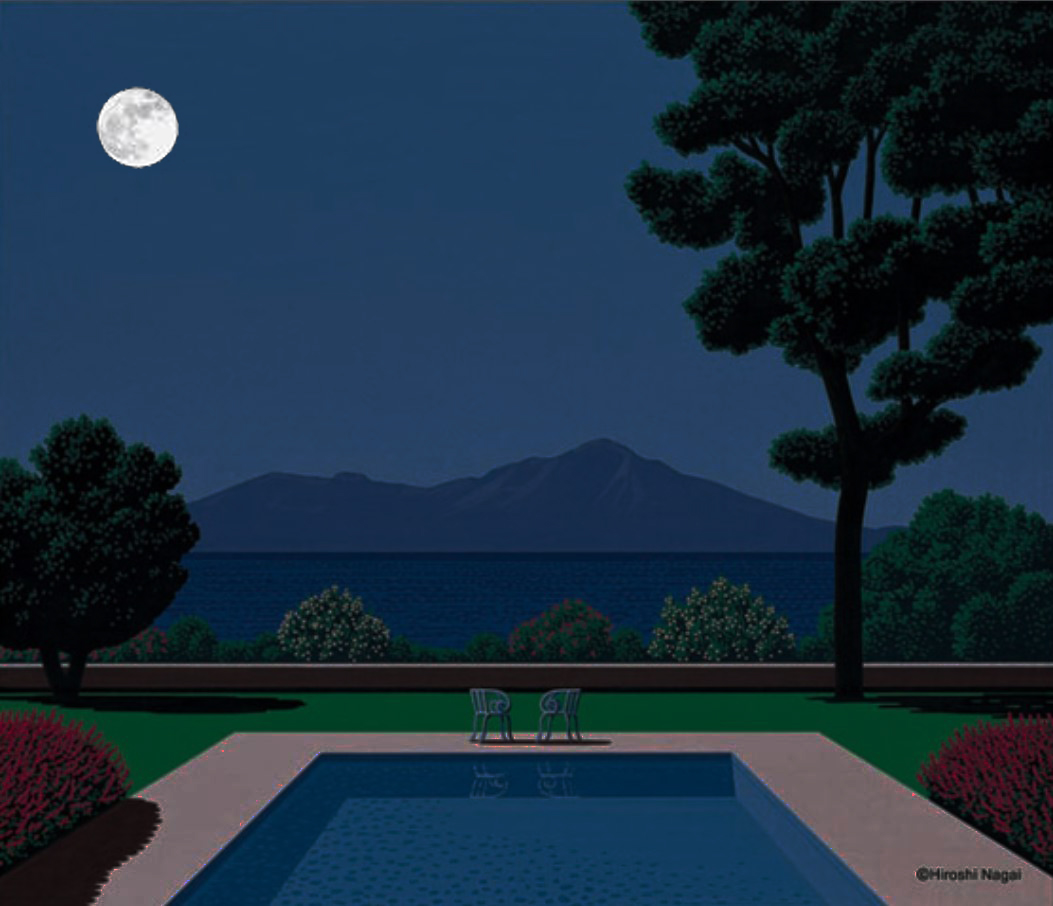
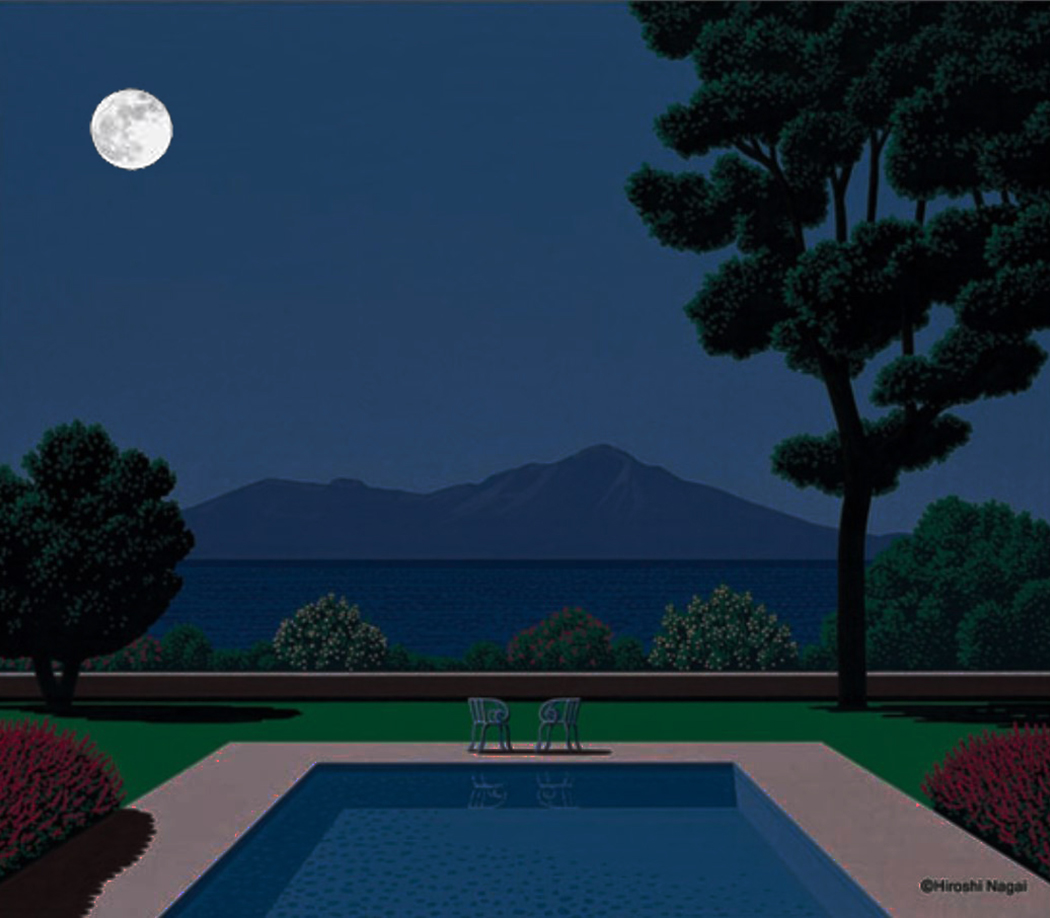
added night time image

diff --git a/src/components/the-view/the-view.vue b/src/components/the-view/the-view.vue
@@ -4,10 +4,11 @@
 
 
     <img id="pool" :src="poolImage" v-if="itsDayTime"/>
+    <img id="pool" :src="nightPoolImage" v-if="!itsDayTime"/>
 
     <img id="rain" :src="rainImage" v-if="itsRaining"/>
 
-    <div id="clouds">
+    <div id="clouds" v-if="itsDayTime">
          <img id="cloud1" :src="cloudImage" v-on:click="itsRaining = !itsRaining"/>
          <img id="cloud2" :src="cloudImage" v-on:click="itsRaining = !itsRaining"/>
          <img id="cloud3" :src="cloudImage" v-on:click="itsRaining = !itsRaining"/>
@@ -20,6 +21,7 @@
 
 <script>
 import poolFile from "./images/pool.jpg"
+import nightPoolFile from "./images/pool_night.jpg"
 import cloudFile from "./images/cloud.png"
 import rainFile from "./images/raining.gif"
 
@@ -28,6 +30,7 @@ export default {
   data(){
     return {
       poolImage: poolFile,
+      nightPoolImage: nightPoolFile,
       cloudImage: cloudFile,
       rainImage: rainFile,
       itsRaining: false,
@@ -35,27 +38,15 @@ export default {
       itsDayTime: true,
     }
   },
-  // watch: {
-  //   counter: function () {
-  //     this.answer = 'Waiting for you to stop typing...'
-  //     this.debouncedGetAnswer()
-  //   }
-  // },
-  computed: {
-    watchCounter: function () {
+  watch: {
+    counter: function () {
       if (this.counter % 10 == 0 ) {
         this.itsDayTime = !this.itsDayTime;
       }
     }
   },
   created () {
-    setInterval(() => this.counter += 1, 500);
+    setInterval(() => this.counter += 1, 2000);
   }
 }
 </script>
-
-<!-- dayOrNight(() => {
-  if (counter % 10 == 0 ) {
-    this.itsDayTime = !this.itsDayTime;
-  }
-}); -->
